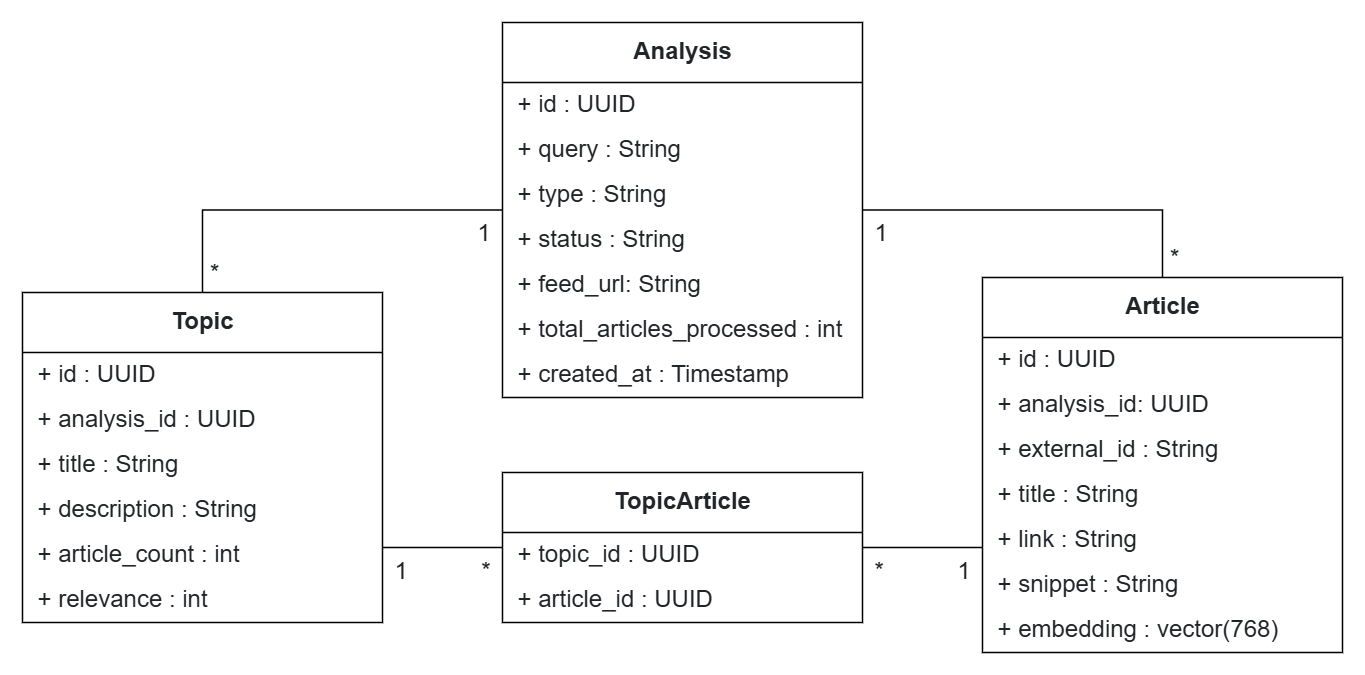
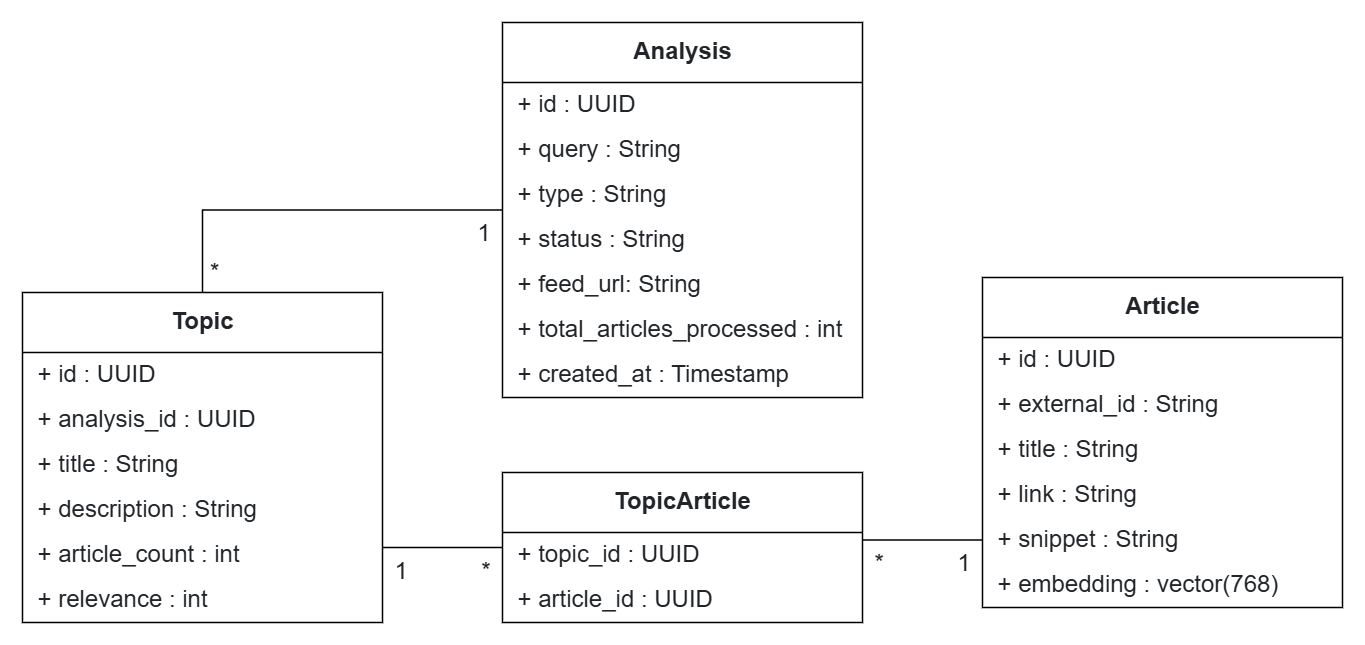
fix(embedding-service): adjusted caching to work with pgvector

diff --git a/services/py-genai/src/services/embedding_service.py b/services/py-genai/src/services/embedding_service.py
@@ -8,10 +8,12 @@ from psycopg2.extras import execute_batch
 from langchain_google_genai import GoogleGenerativeAIEmbeddings
 
 import arxiv
+import uuid
 
 from ..settings import settings
 
 logger = logging.getLogger(__name__)
+logger.setLevel(logging.DEBUG)  # Temporary for debugging cache behavior
 
 
 class EmbeddingService:
@@ -103,13 +105,13 @@ class EmbeddingService:
                     execute_batch(
                         cur,
                         """
-                        INSERT INTO article (external_id, embedding)
-                        VALUES (%s, %s)
+                        INSERT INTO article (id, external_id, embedding)
+                        VALUES (%s, %s, %s)
                         ON CONFLICT (external_id) DO UPDATE
                         SET embedding = EXCLUDED.embedding
                         """,
                         [
-                            (ext_id, emb)
+                            (str(uuid.uuid4()), ext_id, emb)
                             for (_, ext_id), emb in zip(new_ids, new_embeddings)
                         ],
                         page_size=100,
@@ -182,11 +184,24 @@ class EmbeddingService:
             article for article in articles if article.get_short_id() not in cached_ids
         ]
 
+        # Debug log for skipped (cached) articles
+        for article in articles:
+            ext_id = article.get_short_id()
+            if ext_id in cached_ids:
+                logger.debug(
+                    f"Embedding skipped for article {ext_id} - already cached."
+                )
+
         # 3. Generate and store embeddings for new articles
         if new_articles:
             logger.info(
                 f"Generating and storing embeddings for {len(new_articles)} new articles."
             )
+
+            # Debug log for newly generated embeddings
+            for article in new_articles:
+                ext_id = article.get_short_id()
+                logger.debug(f"Generating new embedding for article {ext_id}.")
 
             texts_to_embed = [
                 f"{article.title} - {article.summary}" for article in new_articles

diff --git a/services/spring-api/src/main/java/com/nicheexplorer/apiserver/service/AnalysisService.java b/services/spring-api/src/main/java/com/nicheexplorer/apiserver/service/AnalysisService.java
@@ -153,15 +153,14 @@ public class AnalysisService {
             );
 
             for (Article article : topic.getArticles()) {
-                // Upsert article once per analysis based on external_id
+                // Upsert article based on external_id only
                 UUID articleRowId;
                 try {
                     articleRowId = jdbcTemplate.queryForObject(
-                            "INSERT INTO article (id, analysis_id, external_id, title, link, snippet) VALUES (?, ?, ?, ?, ?, ?) " +
-                                    "ON CONFLICT (analysis_id, external_id) DO UPDATE SET title = EXCLUDED.title RETURNING id",
+                            "INSERT INTO article (id, external_id, title, link, snippet) VALUES (?, ?, ?, ?, ?) " +
+                                    "ON CONFLICT (external_id) DO UPDATE SET title = EXCLUDED.title, link = EXCLUDED.link, snippet = EXCLUDED.snippet RETURNING id",
                             (rs, rowNum) -> UUID.fromString(rs.getString(1)),
                             UUID.randomUUID(),
-                            analysisId,
                             article.getId(),
                             article.getTitle(),
                             article.getLink().toString(),
@@ -170,9 +169,8 @@ public class AnalysisService {
                 } catch (Exception ex) {
                     // Fallback: fetch existing id if upsert did not return
                     articleRowId = jdbcTemplate.queryForObject(
-                            "SELECT id FROM article WHERE analysis_id = ? AND external_id = ?",
+                            "SELECT id FROM article WHERE external_id = ?",
                             UUID.class,
-                            analysisId,
                             article.getId()
                     );
                 }
